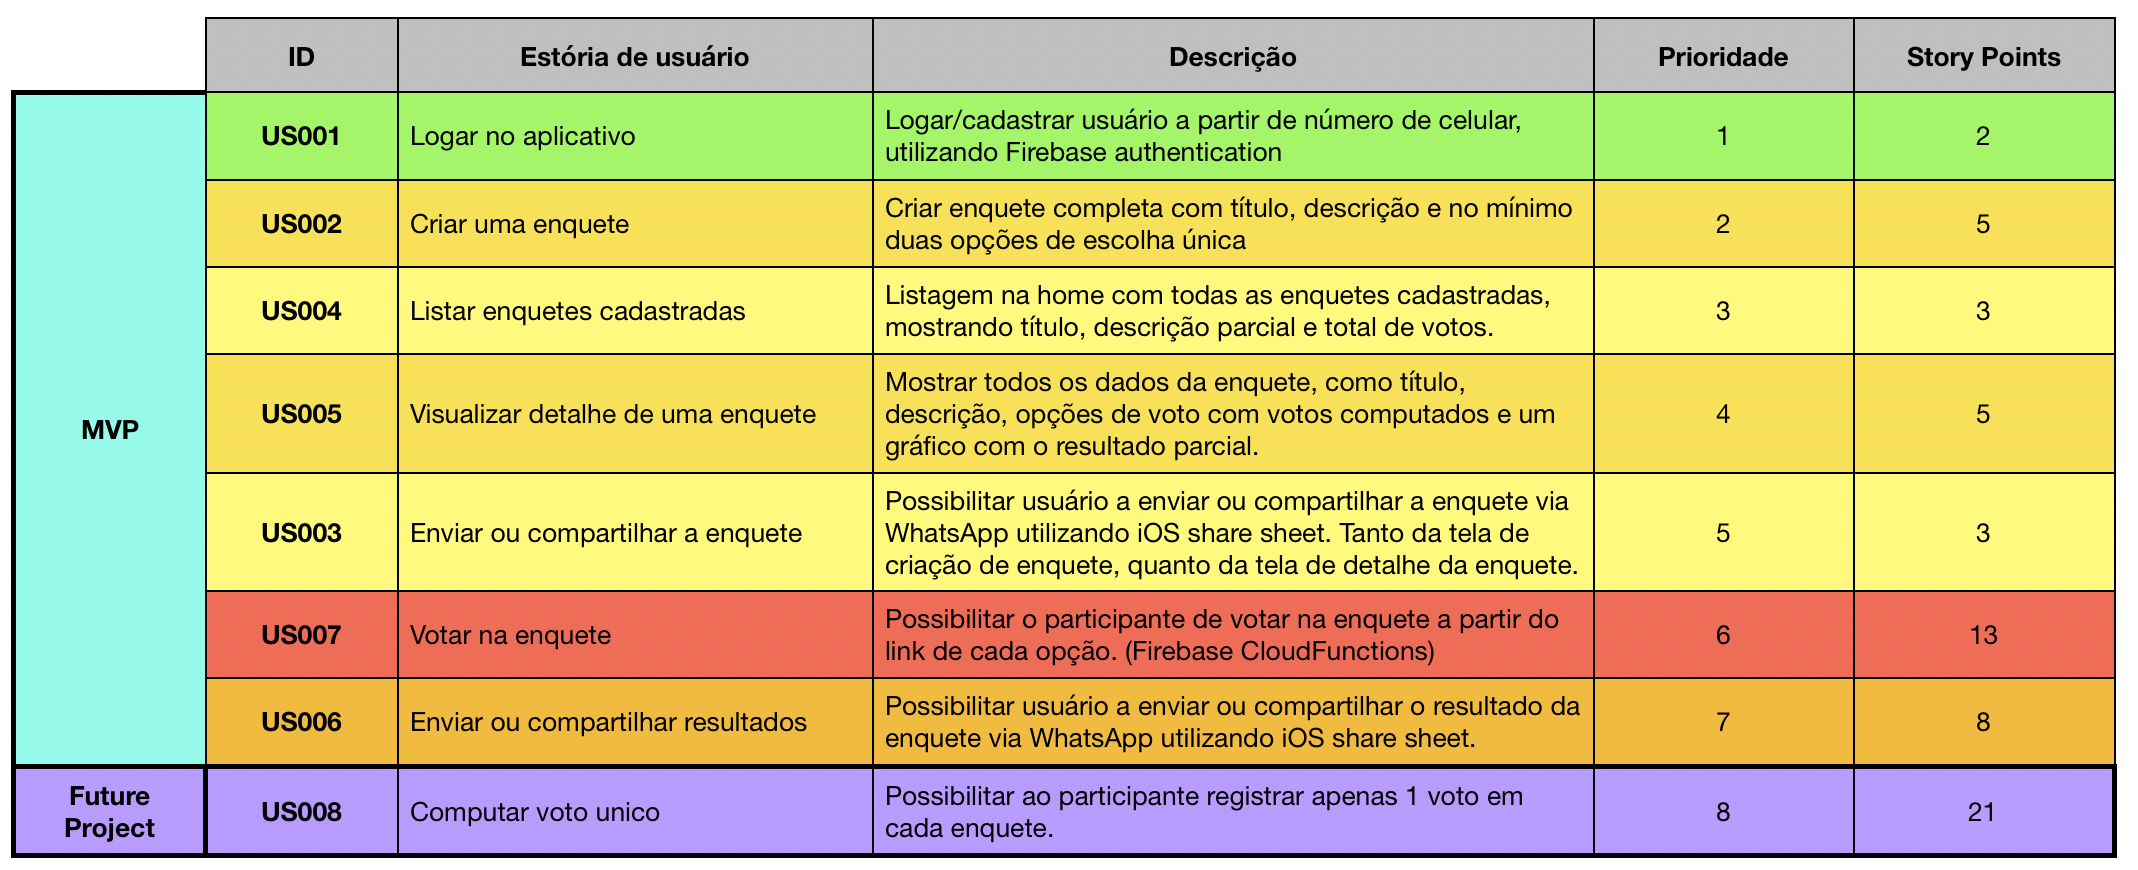
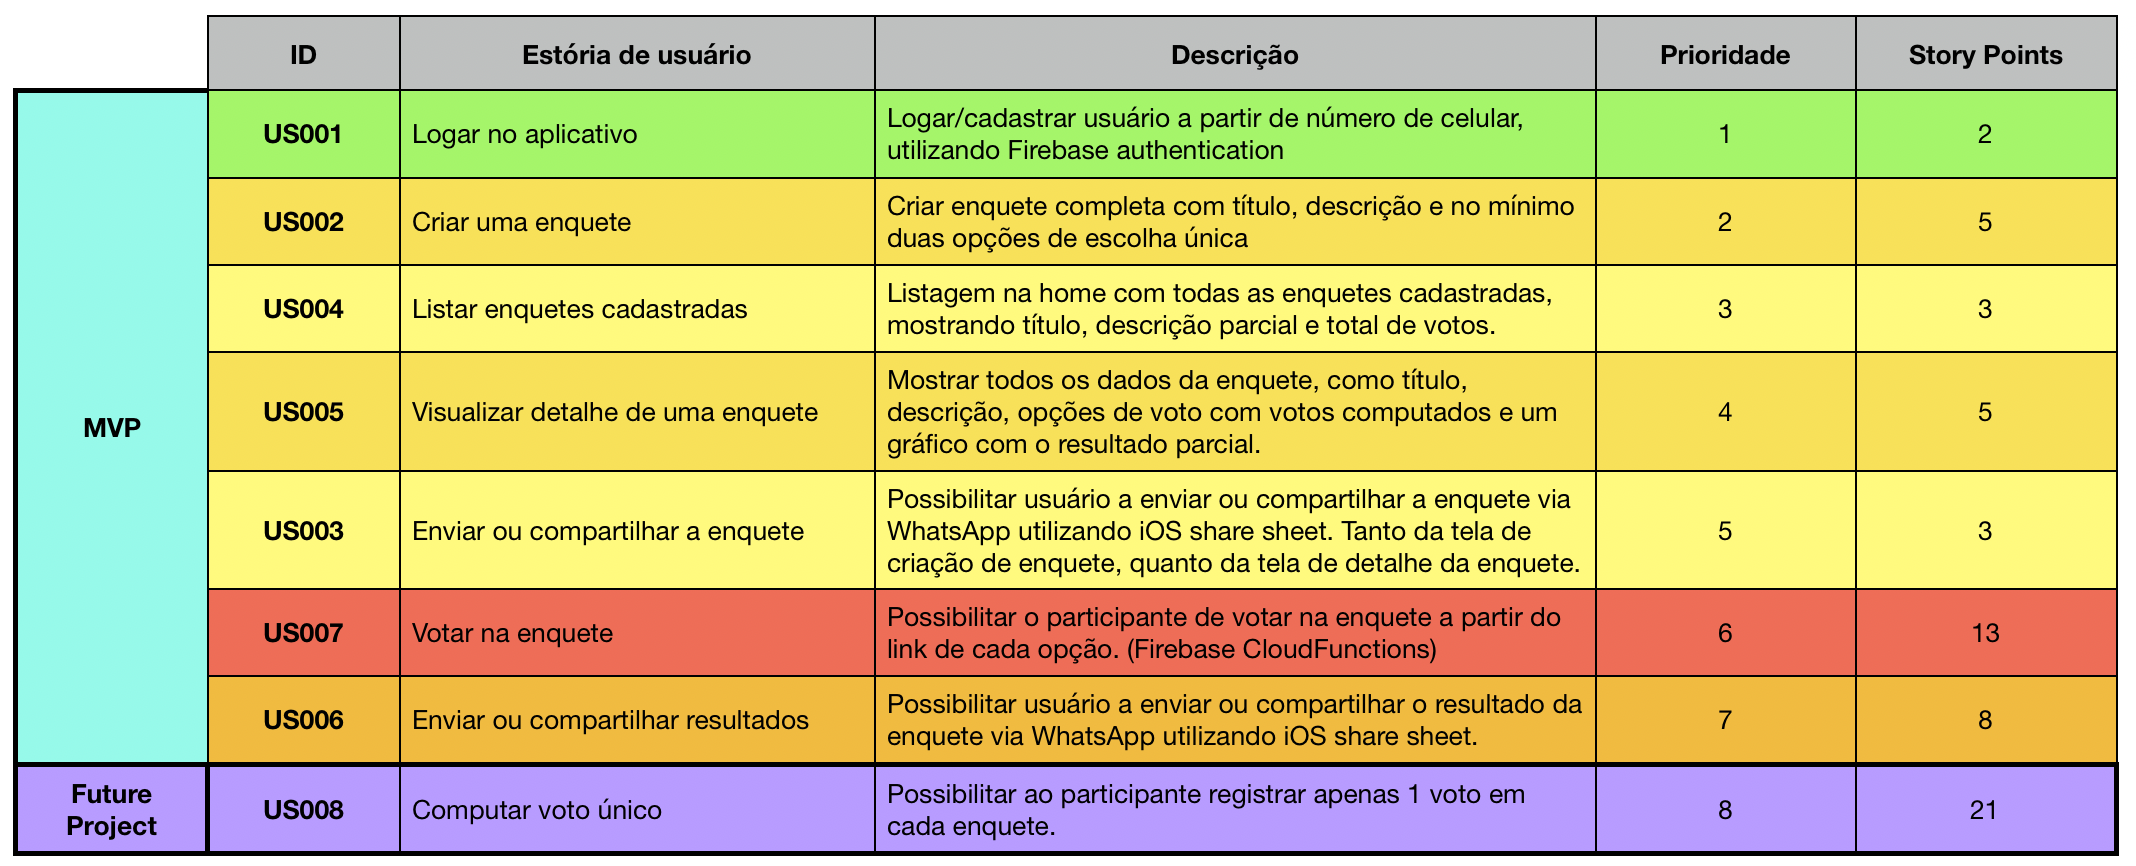
backlog

diff --git a/artefacts/userStories.md b/artefacts/userStories.md
@@ -46,13 +46,7 @@ Como participante da enquete, necessito poder votar nas opções da enquete e co
 Assim poderei participar da votação dentro do aplicativo WhatsApp.
 ___________________________________________________
 
-#### US009
-**Computar voto unico**<br>
-Como usuário do aplicativo, necessito possibilitar ao participante registrar apenas 1 voto em cada enquete.
-Assim poderei ter resultados mais precisos para a tomada de decisão.
-___________________________________________________
-
-#### US010
-**Computar voto unico**<br>
+#### US008
+**Computar voto único**<br>
 Como usuário do aplicativo, necessito possibilitar ao participante registrar apenas 1 voto em cada enquete.
 Assim poderei ter resultados mais precisos para a tomada de decisão.
